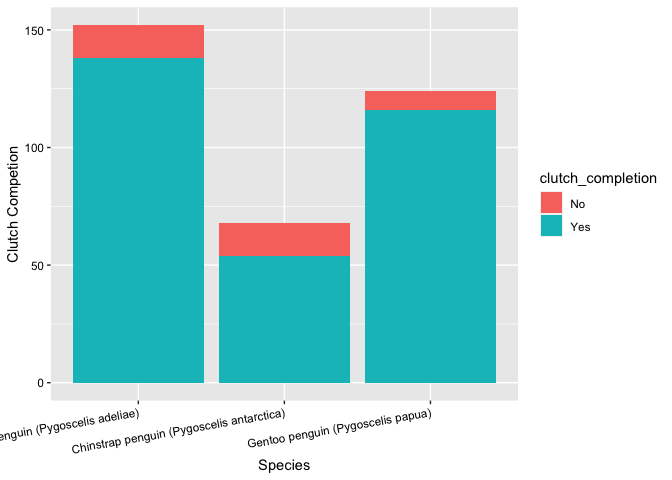
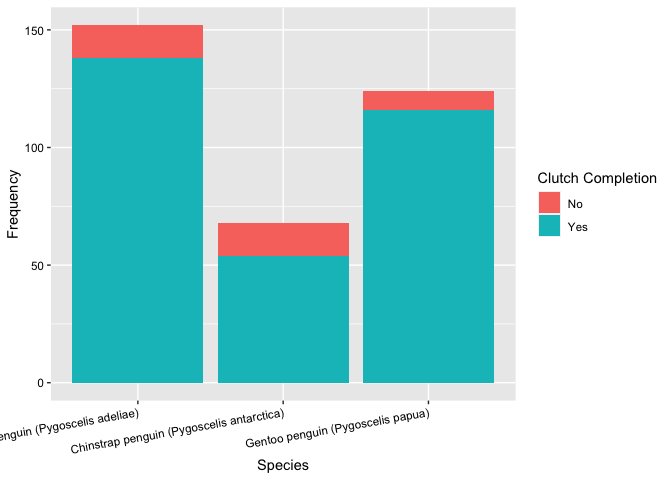
Commitment issues

diff --git a/README.md b/README.md
@@ -39,7 +39,7 @@ rate is measured in many different ways as organisms show different
 reproduction strategies. The penguins of this region show the strategy
 of completing their clutch. A clutch is a ground nest made by these
 penguins. A completed clutch has two eggs in them while an uncompleted
-clutch would have one or no eggs in the clutch. The liklehood of a
+clutch would have one or no eggs in the clutch. The likelihood of a
 completed clutch is determined by many variables. However, the variable
 that will be explored in this experiment is the species of the penguin.
 in this experiment, I will compare each of the penguin species to the
@@ -55,7 +55,7 @@ exploratory data analysis.
     packages on github (Horst, et al., 2020).
 
 2.  The available datasets packages found on github were uploaded into R
-    studio.
+    studio (RStudio Team, 2020)
 
 3.  Associated packages were downloaded to run these datasets in Rstudio
     (Wickham, 2020) (Wickham et al., 2021).
@@ -232,7 +232,7 @@ ggplot(data= penguins_raw2)+
 ``` r
 ggplot(data= penguins_raw2)+
    geom_bar(mapping=aes(x= species, fill= clutch_completion ))+
-   labs(x= "Species", y= "Clutch Competion")+
+   labs(x= "Species", y= "Frequency", fill="Clutch Completion")+
    theme(
    axis.text=element_text(color= "black"),
    axis.text.x= element_text(angle=10, hjust = 1))
@@ -255,3 +255,6 @@ dplyr: A Grammar of Data Manipulation. R package version 1.0.3.
 
 H. Wickham. ggplot2: Elegant Graphics for Data Analysis. Springer-Verlag
 New York, 2016.
+
+RStudio Team (2020). RStudio: Integrated Development Environment for R.
+RStudio, PBC, Boston, MA URL <http://www.rstudio.com/>.
